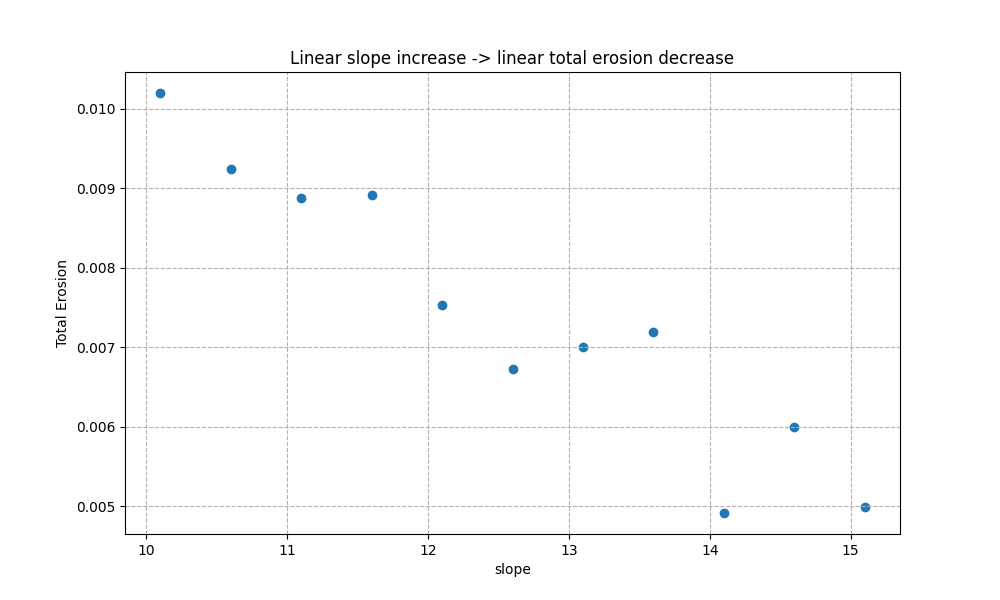
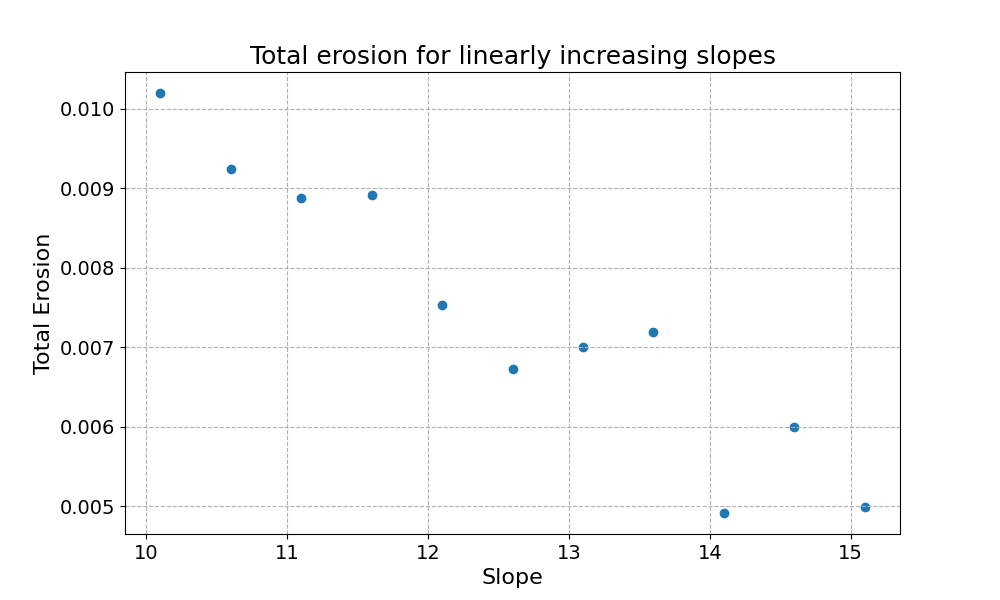
experiment graphs

diff --git a/src/experiments.py b/src/experiments.py
@@ -6,6 +6,7 @@
         This file contains experiments, where the effect of parameter values on the erosion is researched.
 """
 
+from cpp_modules import fastCA
 from CA import *
 from initial_state_generation import generate_initial_slope
 import matplotlib.pyplot as plt
@@ -20,7 +21,7 @@ def simulation(seed, erosion_rate, flow_rate, slope=101*0.1):
     width, height = 21, 101
     initial_state = generate_initial_slope(height, width, slope, noise_amplitude = 0.1, noise_type = 'white')
     ca = CA(width, height, initial_state, neighbor_list=BOTTOM_NEIGHBORS)
-    nr_of_iterations = 1000
+    nr_of_iterations = 100
     grids = ca.run_experiment(nr_of_iterations, erosion_rate, flow_rate)
 
     erosion_per_iteration = []
@@ -59,11 +60,14 @@ def exp_erosion_rate():
     plt.legend()
     plt.savefig('../data/exp_erosion_rate.png')
 
+
     plt.figure(figsize=(10, 6))
     plt.scatter(k, total_erosion, marker='o')
-    plt.xlabel('Erosion rate')
-    plt.ylabel('Total Erosion')
-    plt.title('Linear erosion rate increase -> linear total erosion increase')
+    plt.xlabel('Erosion rate', fontsize=16)
+    plt.ylabel('Total Erosion', fontsize=16)
+    plt.title('Total erosion for linearly increasing erosion rates', fontsize=18)
+    plt.xticks(fontsize=14)
+    plt.yticks(fontsize=14)
     plt.grid(True, linestyle='--')
     plt.savefig('../data/exp_erosion_rate2.png')
 
@@ -93,9 +97,11 @@ def exp_flow_rate():
 
     plt.figure(figsize=(10, 6))
     plt.scatter(flow_rate, total_erosion, marker='o')
-    plt.xlabel('Flow rate')
-    plt.ylabel('Total Erosion')
-    plt.title('Linear flow rate increase -> linear total erosion increase')
+    plt.xlabel('Flow rate', fontsize=16)
+    plt.ylabel('Total Erosion', fontsize=16)
+    plt.title('Total erosion for linearly increasing flow rates', fontsize=18)
+    plt.xticks(fontsize=14)
+    plt.yticks(fontsize=14)
     plt.grid(True, linestyle='--')
     plt.savefig('../data/exp_flow_rate2.png')
 
@@ -128,9 +134,11 @@ def exp_slope():
 
     plt.figure(figsize=(10, 6))
     plt.scatter(slope, total_erosion, marker='o')
-    plt.xlabel('slope')
-    plt.ylabel('Total Erosion')
-    plt.title('Linear slope increase -> linear total erosion decrease')
+    plt.xlabel('Slope', fontsize=16)
+    plt.ylabel('Total Erosion', fontsize=16)
+    plt.title('Total erosion for linearly increasing slopes', fontsize=18)
+    plt.xticks(fontsize=14)
+    plt.yticks(fontsize=14)
     plt.grid(True, linestyle='--')
     plt.savefig('../data/exp_slope2.png')
 
@@ -141,7 +149,7 @@ def exp_incr_flow_decr_eros():
     plt.figure(figsize=(10, 6))
 
     total_erosion = []
-    flow_rate = np.arange(2, 9, 1)
+    flow_rate = np.arange(10, 18, 1)
     k = 1 / flow_rate
     k = k
     print(flow_rate)
@@ -159,9 +167,11 @@ def exp_incr_flow_decr_eros():
     plt.figure(figsize=(10, 6))
     plt.scatter(range(len(flow_rate)), total_erosion, marker='o')  # Use indices for x-values
     plt.xticks(ticks=range(len(flow_rate)), labels=labels, rotation=45, ha='right')  # Add combined labels
-    plt.xlabel('k and Flow rate')
-    plt.ylabel('Total Erosion')
-    plt.title('Linear flow increase, linear erosion rate decrease-> ?')
+    plt.xlabel('Slope', fontsize=16)
+    plt.ylabel('Total Erosion', fontsize=16)
+    plt.title('Total erosion for linearly increasing slopes', fontsize=18)
+    plt.xticks(fontsize=14)
+    plt.yticks(fontsize=14)
     plt.grid(True, linestyle='--')
     plt.tight_layout()  # Adjust layout to fit rotated labels
     plt.savefig('../data/exp_incr_flow_decr_eros.png')
@@ -203,11 +213,12 @@ if __name__ == "__main__":
     """
     Calls the different experiments.
     """
-    exp_erosion_rate()
-    exp_flow_rate()
-    exp_slope()
+
+    # exp_erosion_rate()
+    # exp_flow_rate()
+    # exp_slope()
     exp_incr_flow_decr_eros()
-    exp_incr_slope_incr_eros()
+    # exp_incr_slope_incr_eros()
 
 
 
